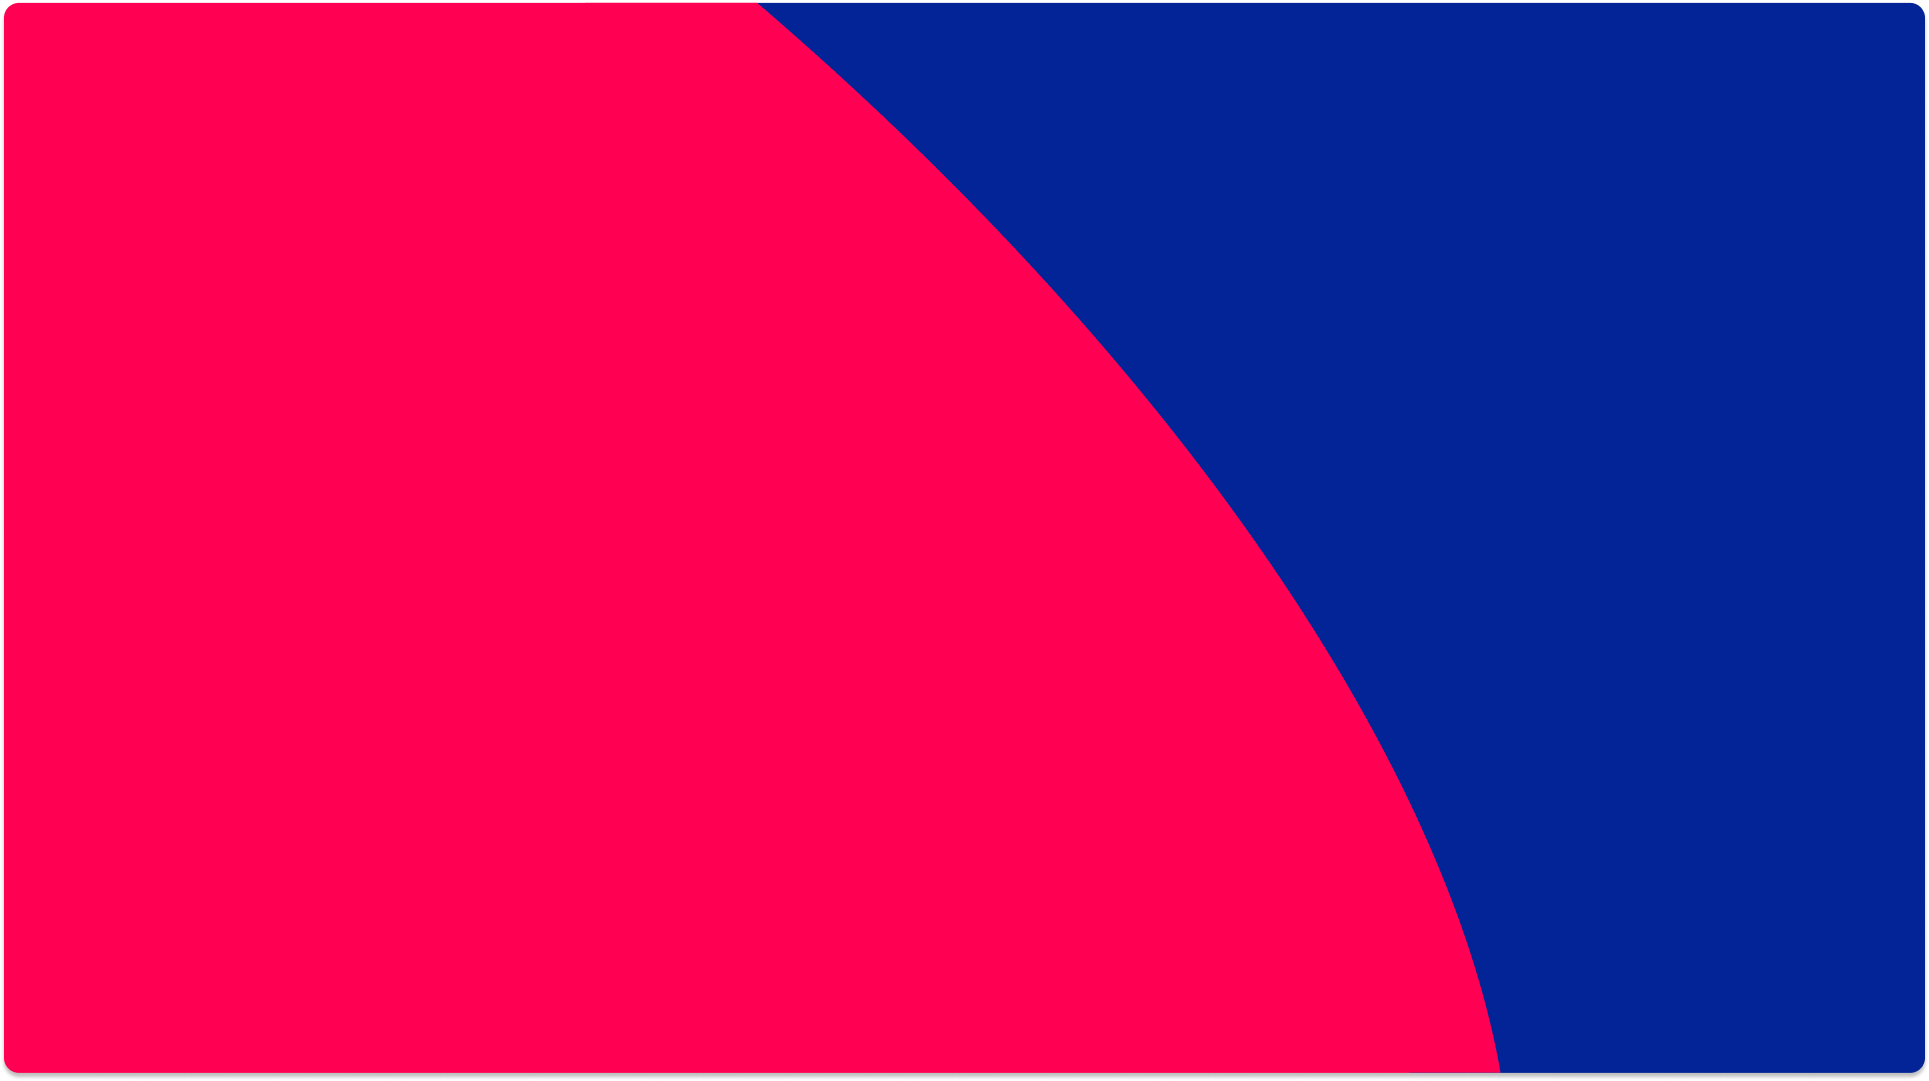
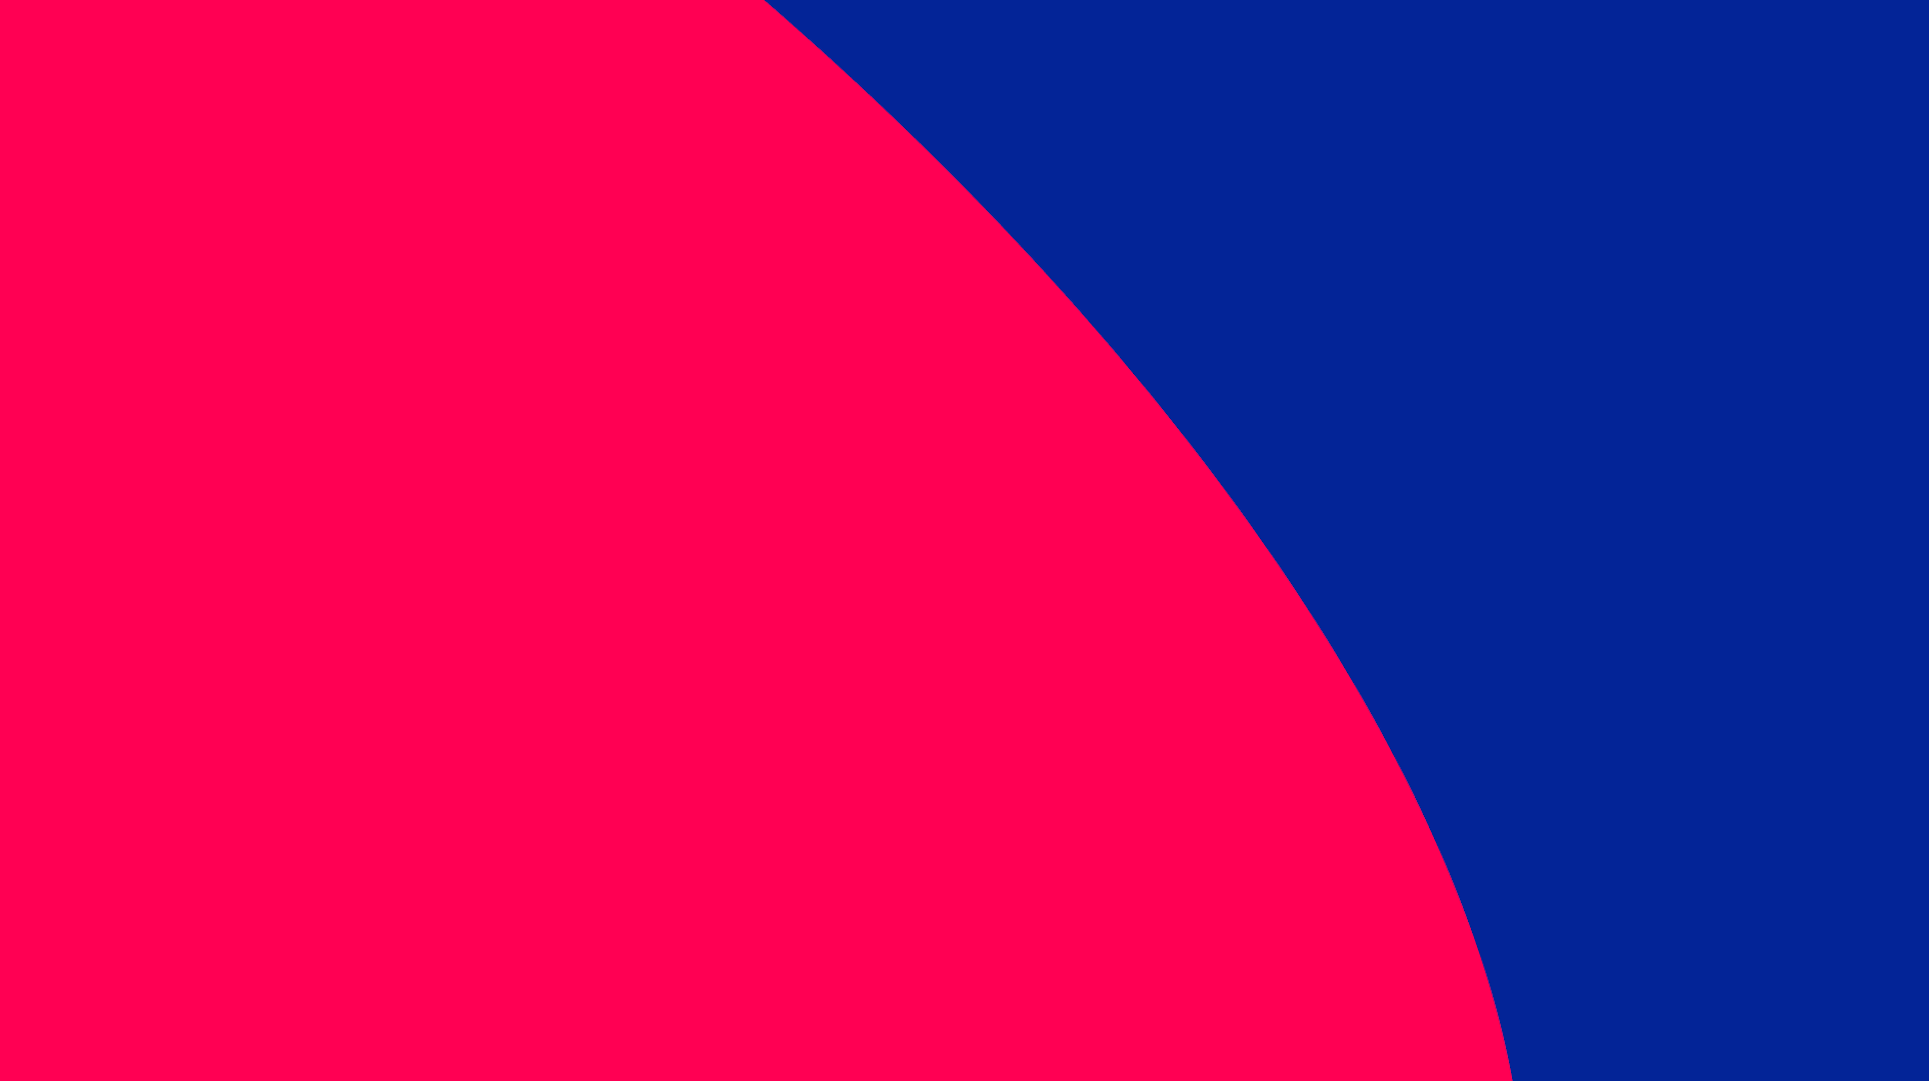
Update navbar and image size reduced

diff --git a/public/assets/css/home.css b/public/assets/css/home.css
@@ -16,18 +16,18 @@
     position: absolute;
 }
 
-.bgHome {
+.bgHome img{
     /* Set rules to fill background */
-    min-height: 100%;
-    min-width: 1024px;
+    min-height: 101vh;
+    min-width: 100vw;
     z-index: -1;
 
     /* Set up proportionate scaling */
-    width: 100%;
-    height: auto;
+    width: 100vw;
+    height: 101vh;
 
     /* Set up positioning */
-    position: fixed;
+    position: absolute;
     top: -10px;
     left: -10px;
 }

diff --git a/public/assets/css/style.css b/public/assets/css/style.css
@@ -14,7 +14,8 @@
 
     --main-size: 14pt;
     --medium-size: 20pt;
-    --large-size: 40pt;
+    --large-size: 30pt;
+    --extra-large-size: 40pt;
 
     --title-font : 'Baloo Paaji 2', cursive;
     --main-font: 'Roboto', sans-serif;
@@ -22,6 +23,10 @@
 
 *{
     box-sizing: border-box;
+}
+
+html{
+    overflow-x: hidden;
 }
 
 body{
@@ -36,6 +41,7 @@ h1,h2,h3{
 
 h1{
     font-size: var(--large-size);
+    text-align: center;
 }
 
 h2{
